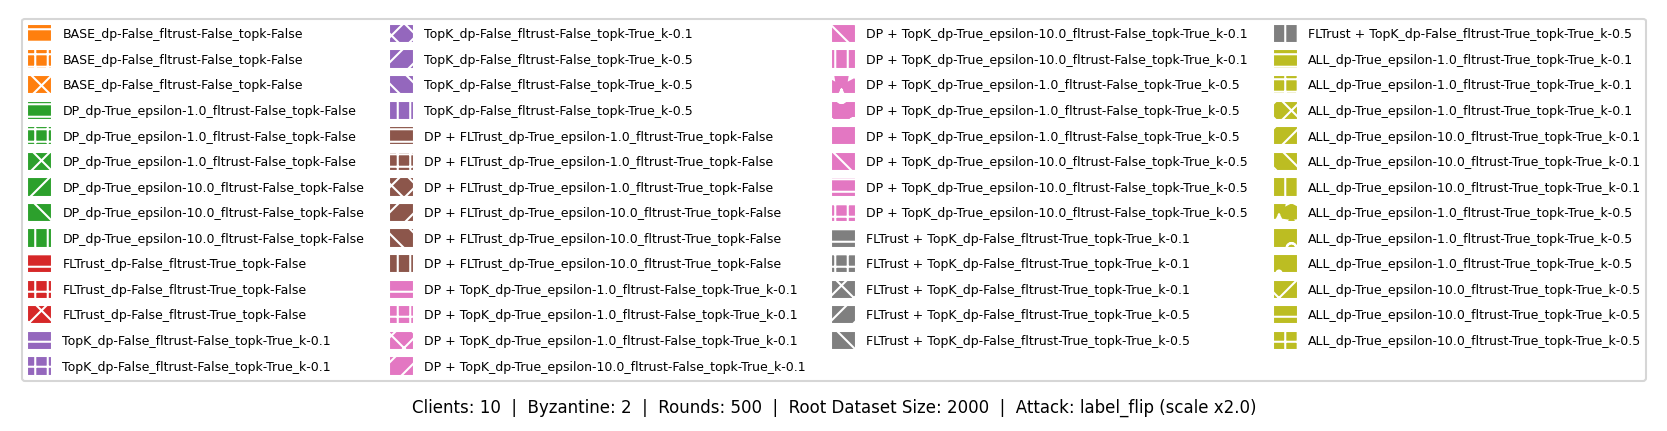
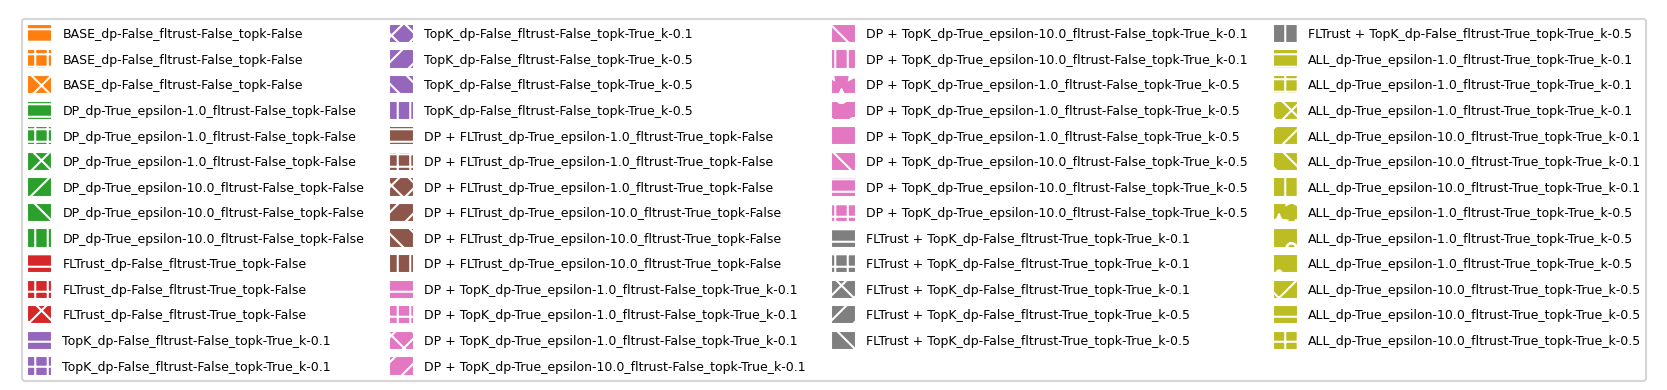
zeug

Changed region(s): [[0.0, 0.0308, 0.9982, 0.9846]]

diff --git a/latex/report/report.tex b/latex/report/report.tex
@@ -18,6 +18,8 @@
 \usepackage{tikz}
 \usepackage{pgfplots}
 \usepackage{placeins}
+\usepackage{tabularx}
+\usepackage{booktabs}
 \usepackage[table,xcdraw]{xcolor}
 \pgfplotsset{compat=1.18}
 \usepackage[printonlyused]{acronym}
@@ -56,6 +58,8 @@
 		\acro{SGD}{Stochastic Gradient Descend}
 		\acro{DP}{Differential Privacy}
 	\end{acronym}
+	
+	\placeholder{glossary}
 	
 % --------------------------------------------------
 	\section{Introduction}
@@ -167,6 +171,7 @@
 	The failure probability $\delta$, introduced by Dwork et al.~\cite{privacy_delta}, denotes the probability that the plain $\varepsilon$-\ac{DP} is broken and should be chosen smaller than the inverse size of the local dataset.
 	
 	\subsubsection{\ac{DP-SGD}}
+	\placeholder{swap local vs global and dpsgd}
 	
 	\ac{DP-SGD} is a modification to the standard \ac{SGD} algorithm introduced by Abadi et al.~\cite{abadi2016deep} in 2016 to integrate \ac{DP} into deep learning frameworks. It enhances \ac{SGD} by clipping the computed gradient to a fixed norm and adding calibrated (Gaussian) noise before performing an update step. The algorithm pseudocode as proposed by Abadi et al. is shown in figure \ref{fig:dpsgdpseudocode}.
 	
@@ -198,7 +203,7 @@
 	
 	FLTrust~\cite{cao2021fltrust} was introduced by Cao et al. in 2020 and mitigates malicious updates through trust scores. These are obtained by calculating the cosine similarity of the local update to an update anchor computed on a small root dataset held by the server. The method relies on the assumption that the server has access to a dataset representing the general data distribution across all clients.
 	
-	\subsection{Performance: Communication Efficiency}
+	\subsection{Communication Efficiency}
 	Another practical limitation especially in mobile applications is the available bandwidth to transmit local updates to the aggregator. We therefore include a method to communicate sparse instead of dense updates.
 	
 	\subsubsection{Top-$k$ Gradient Sparsification}
@@ -227,7 +232,7 @@
 	
 	The same authors proposed the aggregation schemes SMEA and CAF, which match this theoretical lower bound. However, both methods incur a runtime complexity that scales cubically with the model dimension, rendering them impractical for large-scale models. Furthermore, the runtime of SMEA grows exponentially with the number of tolerated Byzantine adversaries, making it infeasible in realistic federated learning settings.
 	
-	The term $\frac{d}{\varepsilon^2 n}$ in \ref{lowerBoundTheory} further relates the model dimension $d$ to the communication cost and achievable estimation error. Consequently, maintaining accuracy for high-dimensional models requires either relaxing privacy guarantees or integrating a larger number of participating clients.
+	The term $\frac{d}{\varepsilon^2 n}$ in Equation~\ref{lowerBoundTheory} further relates the model dimension $d$ to the communication cost and achievable estimation error. Consequently, maintaining accuracy for high-dimensional models requires either relaxing privacy guarantees or integrating a larger number of participating clients.
 	
 	
 	\subsubsection{Empirical Evidence of Compounding}
@@ -260,16 +265,22 @@
 	
 	\paragraph{Performance.}
 
-	The performance metric includes test accuracy on held-out data, communication cost (bytes sent per client per round), and wall-clock training time. These metrics collectively assess the trade-off between model utility, resource efficiency, and computational feasibility in decentralized learning systems.
+	The performance metric includes communication cost (bytes sent per client per round), and wall-clock training time. These metrics collectively assess the trade-off between resource efficiency, and computational feasibility in decentralized learning systems.
 	
 	\subsection{Trilemma Visualization}
 	
-	\placeholder{%
-		Radar / simplex chart positioning each of the 8 configurations relative to the
-		three axes, analogous to Figure~1 of~\cite{allouah2023balancing}.
-		Include actual figure once results are available.%
-	}
+	The values of the three trilemma axes are computed as follows, each yielding a value in the range $[0,1]$, where 0 denotes no effect and 1 the maximum attainable effect:
+	\begin{align*}
+		&\text{Privacy} = \max\left(0,\frac{\varepsilon_{\max}-\varepsilon}{\varepsilon_{\max}}\right)\\
+		&\text{Robustness} = 1-\Delta_{acc}\\
+		&\text{Efficiency} = \alpha\times\frac{t_{base}}{t}+(1-\alpha)\times\frac{b_{base}-b}{b_{base}}
+		\label{eq:trilemma_formula}
+	\end{align*}
 	
+	Here, $\varepsilon$ denotes the privacy budget, $\Delta_{acc}$ the accuracy gap induced by the Byzantine attack, $t$ the wall-clock training time per client and communication round, and $b$ the number of bytes transmitted per client and communication round. The reference values $t_{base}$ and $b_{base}$ correspond to the wall-clock training time and transmitted bytes of the baseline configuration, respectively.
+	
+	The weighting parameter $\alpha$ determines the relative contribution of computation time and communication cost to the efficiency axis and can be adjusted to match the requirements of a target deployment. Unless stated otherwise, $\alpha=0.5$ is used to assign equal weight to both components.
+
 	% --------------------------------------------------
 	\section{Methods}
 	\label{sec:method}
@@ -407,14 +418,13 @@
 	\section{Results}
 	\label{sec:results}
 	% --------------------------------------------------
-	This section summarizes the experimental results. The final round accuracy over all configurations is reported in Figure~\ref{fig:bars_acccc}.
+	This section summarizes the experimental results. The final round accuracy over all configurations is reported in Figure~\ref{fig:bars_acc_exp1}.
 	\subsection{Baseline Reproduction (RQ1 -- Sanity Check)}
 	
-	\placeholder{%
-		FedAvg and FLTrust baselines on MNIST vs.\ published BLADES numbers;
-		table: our accuracy / ASR vs.\ reported values; discussion of any deviations.%
-	}
+	Training a clean FedAvg model using only honest clients on the MNIST dataset yielded a final accuracy of 98\%, slightly below the 99\% reported in the original FedAvg paper~\cite{mcmahan2017fedavg}.
 	
+	The original FLTrust paper reported an accuracy of 99.6\% on the MNIST dataset for both clean FedAvg training and training under attack when FLTrust was enabled. In our experiments, enabling FLTrust achieved a final accuracy of 98\%, matching the performance of the clean FedAvg baseline. Although the absolute accuracy is lower than that reported by the original authors, our results likewise indicate that FLTrust effectively mitigates the label-flipping attack under the considered experimental setting.
+
 	
 	\subsection{Isolation: Individual Mechanism Costs (RQ1)}
 	
@@ -423,12 +433,13 @@
 	\subsubsection{\ac{DP-SGD} Cost}
 	\placeholder{review}
 	
-	\paragraph{Training in 50 rounds of one full epoch each.}
-	The replacement of pure \ac{SGD} with \ac{DP-SGD} on the clients results in an accuracy loss of 0.2 compared to the baseline and an increase in training time of TODO
+	\paragraph{Training time.}
+	The replacement of pure \ac{SGD} with \ac{DP-SGD} on the clients results in an increase in training time. This effect is stronger for stricter privacy budgets as depicted in Figure~\ref{fig:duration_by_client_number}.
 	
+	\paragraph{Final accuracy.}
+	Regarding the model performance, all conducted experiments report an accuracy loss of $\approx 0.2$ compared to the baseline (see Figures~\ref{fig:bars_acc_exp1} and \ref{fig:bars_accexp2}).
 	Contrary to our expectations, the assigned privacy budget does not have a major influence on the accuracy besides the general degradation observed when applying \ac{DP-SGD}: We achieve similar performance for all $\varepsilon \in [1;5;10;25]$. Figure~\ref{fig:DP_acc} shows a slight variation in the early rounds but overall a similar evolution for all values of $\varepsilon$.
 	
-	\paragraph{Training in 500 rounds of 10 batches each.}
 	
 	
 	\subsubsection{FLTrust}
@@ -439,41 +450,11 @@
 	
 	\paragraph{Cost.}
 	\placeholder{extend once results are available}
-	
-	
-	\paragraph{Development of trust scores.}
-	Figure~\ref{fig:trustscores_over_rounds} illustrates the evolution of the trust scores throughout training. The first chart, corresponding to the isolated FLTrust configuration, shows a clear separation between honest and malicious clients. Honest clients start with trust scores of approximately 0.9, which gradually decrease after roughly 15 rounds before stabilizing around 0.3. Malicious clients start near 0.7, exhibit a brief increase, and then decline sharply to 0 after approximately 25 training rounds.
-	
-	One possible explanation for the gradual decline in the trust scores of honest clients is that differences between the local training datasets become increasingly influential once the model has learned the general structure of the data. Consequently, honest updates remain broadly aligned with the root dataset but become progressively more diverse, whereas the poisoned and scaled updates of malicious clients deviate from the server update anchor and are therefore assigned trust scores close to zero.
-	
-	\paragraph{Interaction of trust scores and batches processed per round.}
-	\label{batches_per_round_trustscores}
-	
-	Table~\ref{tab:trustScoresBatches} summarizes the effect of the number of locally processed batches per communication round on the final model accuracy and the evolution of the trust scores assigned to honest and malicious clients. Processing an entire local epoch per round yields the highest model accuracy but causes the trust scores of honest clients to converge toward zero during later training stages. In contrast, processing only a single batch per round, as proposed by the original authors, results in substantial overlap between the trust scores of honest and malicious clients, reducing the effectiveness of FLTrust and leading to significantly lower accuracy.
-	
-	Processing 5--20 batches per round preserves a clear separation between honest and malicious trust scores while maintaining high model accuracy. Among these configurations, 10 batches per round provide a favorable trade-off and are therefore used throughout the remainder of this work.
-	
-	
-	\begin{table*}[!ht]
-		\centering
-		    \begin{tabular}{|l|l|l|l|l|}
-			\hline
-			\textbf{Local steps / round} & \textbf{Rounds} & \textbf{Accuracy} & \textbf{Honest trust score (late training)} & \textbf{Malicious trust score} \\ \hline
-			Full epoch & 300 & 0.986 & 0.016 (collapsed to 0 after $\approx100$ rounds) & 0.000 \\ \hline
-			1 & 300 & 0.782 & 0.450 (high, strongly fluctuating) & 0.325 (overlaps with honest) \\ \hline
-			5 & 600 & 0.946 & 0.02–0.22 (stable, non-collapsing) & 0.000 \\ \hline
-			10 & 600 & 0.969 & 0.05–0.19 (stable, non-collapsing) & 0.000 \\ \hline
-			20 & 600 & 0.968 & 0.02–0.21 (stable, non-collapsing) & 0.000 \\ \hline
-		\end{tabular}
-		\caption{Summary of the evolution of trust scores for honest and malicious clients during late training (after 250+ rounds).}
-		\label{tab:trustScoresBatches}
-	\end{table*}
-
 
 	\subsubsection{Top-$k$ Sparsification Cost}
 	\placeholder{Accuracy, bytes per round, and wall-clock time for $k \in \{1\%,10\%\}$. REVIEW}
 	\paragraph{Effect.}
-	Applying Top-k sparsification yields EFFECT GOES HERE
+	Applying Top-k sparsification yields the expected savings in bandwidth, modeled here by measuring the bytes transferred per client per round. The results are visualized in Figure~\ref{fig:bytes_per_round}, confirming a reduction of $100-2k\%$. The factor of two comes from the necessity to transfer also the indices of the transferred bytes, rendering all $k\ge50$ impractical for saving bandwidth.
 	
 	\paragraph{Cost.}
 	We do not observe a significant decline in performance when applying Top-k sparsification to the MNIST training process. Cutting down to transferring only the top 1\% of the gradient yields a slight loss in accuracy, but not a noticeable effect.
@@ -495,9 +476,13 @@
 	\placeholder{check when results}
 	
 	\paragraph{Cost.}
-	Combining \ac{DP-SGD} with FLTrust results in a substantial decline in model accuracy, reducing performance to only slightly above random guessing. Figure~\ref{fig:confusion_DP+FLTRUST} shows the confusion matrix of the final model, revealing that it predicts only two classes.
+	\placeholder{review}
+	Combining \ac{DP-SGD} with FLTrust results in a substantial decline in model accuracy when training full epochs per round, reducing performance to only slightly above random guessing. Figure~\ref{fig:confusion_DP+FLTRUST} shows the confusion matrix of the final model, revealing that it predicts only two classes.
 	
 	These results are consistent with the super-additive interaction between privacy and Byzantine robustness derived by Allouah et al. Intuitively, the noise introduced for differential privacy causes client updates to deviate from the anchor update computed on the root dataset, resulting in uniformly low trust scores. This behavior is reflected in the second chart of Figure~\ref{fig:trustscores_over_rounds}.
+	
+	When reducing the local training steps to 10 batches per round (final accuracies available in Figure~\ref{fig:bars_accexp2}), the decline is surprisingly soft, surpassing the results of \ac{DP} alone and showcasing the same accuracy gap against the FLTrust-only results as the \ac{DP}-only config did against the base configuration
+	Contrary to our expectations, for the combination of FLTrust and \ac{DP}, stricter privacy guarantees ($\varepsilon=1$) led to even better accuracy than more relaxed ones ($\varepsilon=10$), resulting in accuracy gaps down to $\Delta_{acc}=0.05$ compared to the honest FedAvg setting.
 	
 	\paragraph{Influence of the $\varepsilon$ value.}
 	Although model performance varies slightly with $\varepsilon$, even the relaxed setting of $\varepsilon = 25$ does not achieve an accuracy above 0.2. The most pronounced effect is shown in Figure~\ref{fig:DP+FLTRUST_acc}, which illustrates the accuracy throughout training. While configurations with $\varepsilon \in {5,10,25}$ reach a peak accuracy of approximately 0.2 after 35, 25, and 15 training rounds, respectively, the configuration with $\varepsilon = 1$ never exceeds an accuracy of 0.12, indicating substantially slower convergence.
@@ -529,6 +514,38 @@
 		does the compounding pattern hold across both?%
 	}
 	
+	\subsection{Trust and Privacy: FlTrust scores (RQ3)}
+	This section reports the findings related to the trust scores computed during the FLTrust aggregation.
+	
+	\paragraph{Development of trust scores.}
+	Figure~\ref{fig:trustscores_over_rounds} illustrates the evolution of the trust scores throughout training. The first chart, corresponding to the isolated FLTrust configuration, shows a clear separation between honest and malicious clients. Honest clients start with trust scores of approximately 0.9, which gradually decrease after roughly 15 rounds before stabilizing around 0.3. Malicious clients start near 0.7, exhibit a brief increase, and then decline sharply to 0 after approximately 25 training rounds.
+	
+	One possible explanation for the gradual decline in the trust scores of honest clients is that differences between the local training datasets become increasingly influential once the model has learned the general structure of the data. Consequently, honest updates remain broadly aligned with the root dataset but become progressively more diverse, whereas the poisoned and scaled updates of malicious clients deviate from the server update anchor and are therefore assigned trust scores close to zero.
+	
+	\paragraph{Interaction of trust scores and batches processed per round.}
+	\label{batches_per_round_trustscores}
+	
+	Table~\ref{tab:trustScoresBatches} summarizes the effect of the number of locally processed batches per communication round on the final model accuracy and the evolution of the trust scores assigned to honest and malicious clients. Processing an entire local epoch per round yields the highest model accuracy but causes the trust scores of honest clients to converge toward zero during later training stages. In contrast, processing only a single batch per round, as proposed by the original authors, results in substantial overlap between the trust scores of honest and malicious clients, reducing the effectiveness of FLTrust and leading to significantly lower accuracy.
+	
+	Processing 5--20 batches per round preserves a clear separation between honest and malicious trust scores while maintaining high model accuracy. Among these configurations, 10 batches per round provide a favorable trade-off and are therefore used in the second experimental setup.
+	For the full-epoch variant, the training rounds are limited to 50 to avoid the collaps of the trust scores for honest clients.
+	
+	\begin{table*}[!h]
+		\centering
+		
+		\begin{tabularx}{\textwidth}{|l|l|l|X|X|}
+			\hline
+			\textbf{Local steps / round} & \textbf{Rounds} & \textbf{Accuracy} & \textbf{Honest trust score (late training)} & \textbf{Malicious trust score} \\ \hline
+			Full epoch & 300 & 0.986 & 0.016 (collapsed to 0 after $\approx100$ rounds) & 0.000 \\ \hline
+			1 & 300 & 0.782 & 0.450 (high, strongly fluctuating) & 0.325 (overlaps with honest) \\ \hline
+			5 & 600 & 0.946 & 0.02–0.22 (stable, non-collapsing) & 0.000 \\ \hline
+			10 & 600 & 0.969 & 0.05–0.19 (stable, non-collapsing) & 0.000 \\ \hline
+			20 & 600 & 0.968 & 0.02–0.21 (stable, non-collapsing) & 0.000 \\ \hline
+		\end{tabularx}
+		\caption{Summary of the evolution of trust scores for honest and malicious clients during late training (after 250+ rounds).}
+		\label{tab:trustScoresBatches}
+	\end{table*}
+	
 	% --------------------------------------------------
 	\section{Discussion}
 	\label{sec:discussion}
@@ -542,17 +559,7 @@
 		configuration pair; intuition for why DP clipping and FLTrust cosine clipping
 		interact destructively.%
 	}
-	
-	\subsection{Mitigation: Joint Clipping-Norm Calibration (RQ3)}
-	
-	\placeholder{%
-		Heuristic: jointly set DP clipping norm $C$ and FLTrust trust threshold to
-		minimize redundant gradient suppression;
-		description of the calibration procedure;
-		results vs.\ uncalibrated worst-case combination;
-		formal guarantee preservation argument.%
-	}
-	
+
 	\subsection{Practical Recommendations}
 	
 	\placeholder{%
@@ -600,7 +607,7 @@
 	
 	Furthermore the experimental setup should be extended to encompass a broader range of methods (e.g., Krum, SMEA, CAF for aggregation) and evaluate stronger adversarial scenarios, such as model poisoning attacks described by Fang et al.\cite{fang2020poisoning}. Additionally, exploring reparametrization techniques such as the Low-Rank-adaptation method proposed by Liu et al.\cite{liu2025dplora} could provide insights into balancing efficiency and privacy in \ac{FL} systems. 
 	
-	Other promising directions include testing alternative threat models (e.g., malicious servers, collusion between malicious clients and servers), or introducing data heterogeneity through artificially distributed datasets. These extensions would better reflect real-world complexities and enable more robust comparisons across methodologies.
+	Other promising directions include testing alternative threat models (e.g., malicious servers, collusion between malicious clients and servers), or introducing data heterogeneity through artificially skewed dataset distributions. These extensions would better reflect real-world complexities and enable more robust comparisons across methodologies.
 	
 	% --------------------------------------------------
 	\section{Conclusion}
@@ -621,60 +628,84 @@
 	\bibliographystyle{IEEEtran}
 	\bibliography{bib.bib}
 	\clearpage
-	
+	\onecolumn
 	\section{APPENDIX}
+	\FloatBarrier
+	\begin{figure}[h]
+		\centering
+		\includegraphics[width=0.7\linewidth]{img/bytes_per_client.png}
+		\caption{Bytes transferred per client per round for settings with different Top-k sparsification thresholds.}
+		\label{fig:bytes_per_round}
+	\end{figure}
 	\subsection{Experimental run on MNIST dataset with 50 rounds of full epochs trained, $n=50, \eta=40\%$, attack scale = 2.0}
 	\FloatBarrier
 	
 	\begin{figure}[h]
-		\includegraphics[width=0.9\linewidth]{img/MNIST_07-10/confusion_matrix_BASE}
+		\centering
+		\includegraphics[width=0.5\linewidth]{img/MNIST_07-10/confusion_matrix_BASE}
 		\caption{Final confusion matrices for standard FedAvg .}
 		\label{fig:confusion_matrix_base}
 	\end{figure}
 	
 	\begin{figure}[h]
-		\includegraphics[width=0.9\linewidth]{img/MNIST_07-10/confusion_matrix_FLTRUST.png}
+		\centering
+		\includegraphics[width=0.5\linewidth]{img/MNIST_07-10/confusion_matrix_FLTRUST.png}
 		\caption{Final confusion matrices for FLTrust config.}
 		\label{fig:confusion_matrix_fltrust}
 	\end{figure}
 	
 	\begin{figure}[h]
-		\includegraphics[width=0.9\linewidth]{img/MNIST_07-10/confusion_matrix_DP+FLTRUST.png}
+		\centering
+		\includegraphics[width=0.5\linewidth]{img/MNIST_07-10/confusion_matrix_DP+FLTRUST.png}
 		\caption{Final confusion matrix for the DP+FLTrust configuration.}
 		\label{fig:confusion_DP+FLTRUST}
 	\end{figure}
 	
-	\begin{figure*}
+	\begin{figure}
 		\includegraphics[width=\textwidth]{img/MNIST_07-10/label_distribution.png}
 
 		\caption{Label distribution of the root dataset used for FLTrust and the client training datasets. The root dataset was sampled uniformly across all classes, while the client datasets were sampled randomly.}
 		\label{fig:labeldistr}
-	\end{figure*}
+	\end{figure}
 	
-	\begin{figure*}
+	\begin{figure}
 		\includegraphics[width=\textwidth]{img/MNIST_07-10/bar_accuracy_bars.png}
 		\includegraphics[width=\textwidth]{img/MNIST_07-10/bar_accuracy_legend.png}
 		\caption{Final accuracy achieved on all different configurations.}
-		\label{fig:bars_acccc}
-	\end{figure*}
+		\label{fig:bars_acc_exp1}
+	\end{figure}
 	
-	\begin{figure*}
+	\begin{figure}
 		\includegraphics[width=\textwidth]{img/MNIST_07-10/per_config_line_charts/line_chart_config_2.png}
 		\caption{Accuracy over training rounds for DP-only configuration.}
 		\label{fig:DP_acc}
-	\end{figure*}
+	\end{figure}
 	
-	\begin{figure*}
+	\begin{figure}
 		\includegraphics[width=\textwidth]{img/MNIST_07-10/per_config_line_charts/line_chart_config_5.png}
 		\caption{Accuracy per training round for DP+FLTrust configuration.}
 		\label{fig:DP+FLTRUST_acc}
-	\end{figure*}
+	\end{figure}
 	
-	\begin{figure*}
+	\begin{figure}
 		\includegraphics[width=\textwidth]{img/MNIST_07-10/trust_over_rounds_per_config.png}
 		\caption{The line charts depict the average trust scores of honest and malicious clients during the training rounds. While for settings where \ac{DP} is enabled the scores are consistently equally low, the settings without \ac{DP}-related noise addition show a clear distinction.}
 		\label{fig:trustscores_over_rounds}
-	\end{figure*}
+	\end{figure}
 	\FloatBarrier
 	\subsection{Experimental run on MNIST dataset with 500 rounds of 10 SGD steps each, $n\in\{10,30,60\}, \eta=20\%$, attack scale = 2.0}
+	
+	\begin{figure}[h]
+		\centering
+		\includegraphics[width=\textwidth]{img/MNIST_07-12/bar_accuracy.png}
+		\includegraphics[width=\textwidth]{img/MNIST_07-12/bar_accuracy_legend.png}
+		\caption{Final accuracy achieved on all different configurations.}
+		\label{fig:bars_accexp2}
+	\end{figure}
+	
+	\begin{figure}
+		\includegraphics[width=\linewidth]{img/MNIST_07-12/duration_per_config.png}
+		\caption{The full training duration for varying numbers of clients.}
+		\label{fig:duration_by_client_number}
+	\end{figure}
 \end{document}